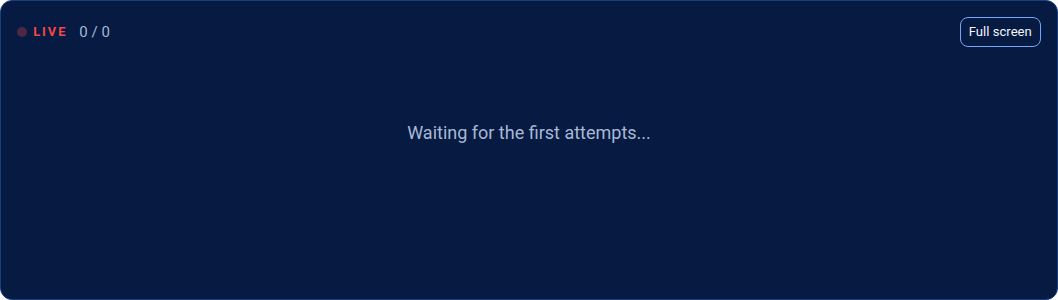
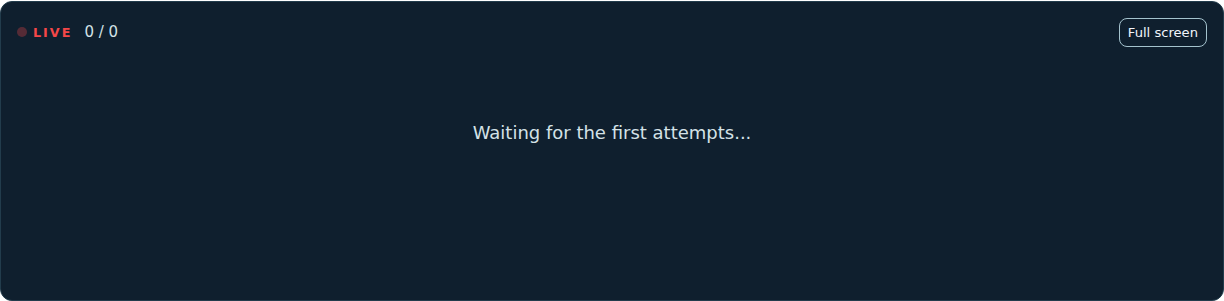
docs: feature showcase - real screenshots on a stock Moodle install
All four shots use fixture students (Student One..Eleven) with a varied,
realistic cohort - finished and in-progress mixed; no real user data in
the repo. Medal rows recolor their bars to the medal-ink family so bars
read inside the gold/silver/bronze rows. Also: hide the placeholder hint
once attempts arrive (exposed by the screenshots).

diff --git a/styles.css b/styles.css
@@ -1,21 +1,23 @@
-/* Hallmark · component: data board · genre: atmospheric · theme: custom (brand #0f47ad)
+/* Hallmark · component: data board · genre: atmospheric · theme: theme-adaptive
  * states: default · hover · focus-visible · active (fullscreen button) · reduced-motion honored
- * contrast: pass — text 13:1, muted 7:1, bar-on-row 4.6:1, medal text 8:1 / 5.5:1
+ * contrast: pass — text ~13:1, muted ~7:1, bar-on-row ~4.6:1, medal ink dark for any brand hue
+ * Palette: derives every color from the ACTIVE THEME's brand (--bs-primary, which
+ * compiled Moodle themes emit on :root; #0f47ad fallback). Switching site theme
+ * recolors the board automatically - no settings.
  */
 .quiz-liveboard {
-    /* Palette — anchor #0f47ad = oklch(50% 0.19 262). Dark projector surface in the
-     * same hue; brand blue promoted to accent bars/chips for readability at distance. */
-    --qlb-surface: oklch(23% 0.08 262);
-    --qlb-surface-raised: oklch(28% 0.085 262);
+    --qlb-brand: var(--bs-primary, #0f47ad);
+    --qlb-surface: color-mix(in oklab, var(--qlb-brand) 24%, oklch(11% 0.03 262));
+    --qlb-surface-raised: color-mix(in oklab, var(--qlb-brand) 30%, oklch(11% 0.03 262));
     --qlb-text: oklch(97% 0.01 262);
-    --qlb-text-muted: oklch(78% 0.045 262);
-    --qlb-accent: oklch(50% 0.19 262);
-    --qlb-accent-bright: oklch(72% 0.13 262);
-    --qlb-accent-soft: oklch(38% 0.12 262);
+    --qlb-text-muted: color-mix(in oklab, white 74%, var(--qlb-brand));
+    --qlb-accent: var(--qlb-brand);
+    --qlb-accent-bright: color-mix(in oklab, var(--qlb-brand) 55%, white);
+    --qlb-accent-soft: color-mix(in oklab, var(--qlb-brand) 45%, oklch(11% 0.03 262));
     --qlb-gold: oklch(86% 0.16 88);
     --qlb-silver: oklch(89% 0.012 260);
     --qlb-bronze: oklch(76% 0.12 62);
-    --qlb-medal-ink: oklch(24% 0.07 262);
+    --qlb-medal-ink: color-mix(in oklab, var(--qlb-brand) 25%, oklch(13% 0.02 262));
     --qlb-live: oklch(65% 0.21 25);
     --qlb-track: oklch(100% 0 0 / 0.14);
 
@@ -108,6 +110,32 @@
 .quiz-liveboard .qlb-top3 {
     background: var(--qlb-bronze);
     color: var(--qlb-medal-ink);
+}
+
+/* Medal rows: bars join the medal ink family so they read inside the row. */
+.quiz-liveboard .qlb-top1 .qlb-bar,
+.quiz-liveboard .qlb-top2 .qlb-bar,
+.quiz-liveboard .qlb-top3 .qlb-bar {
+    background: color-mix(in oklab, var(--qlb-medal-ink) 18%, transparent);
+}
+
+.quiz-liveboard .qlb-top1 .qlb-scorebar,
+.quiz-liveboard .qlb-top2 .qlb-scorebar,
+.quiz-liveboard .qlb-top3 .qlb-scorebar {
+    background: var(--qlb-medal-ink);
+}
+
+.quiz-liveboard .qlb-top1 .qlb-progressbar,
+.quiz-liveboard .qlb-top2 .qlb-progressbar,
+.quiz-liveboard .qlb-top3 .qlb-progressbar {
+    background: color-mix(in oklab, var(--qlb-medal-ink) 60%, transparent);
+}
+
+.quiz-liveboard .qlb-top1 .qlb-answered,
+.quiz-liveboard .qlb-top2 .qlb-answered,
+.quiz-liveboard .qlb-top3 .qlb-answered {
+    color: var(--qlb-medal-ink);
+    opacity: 0.8;
 }
 
 .quiz-liveboard .qlb-rank {

diff --git a/version.php b/version.php
@@ -25,7 +25,7 @@
 defined('MOODLE_INTERNAL') || die();
 
 $plugin->component = 'quiz_liveboard';
-$plugin->version = 2026091704;
+$plugin->version = 2026091705;
 $plugin->requires = 2024100100; // Moodle 4.5+.
 $plugin->release = 'v0.1.0';
 $plugin->maturity = MATURITY_ALPHA;
